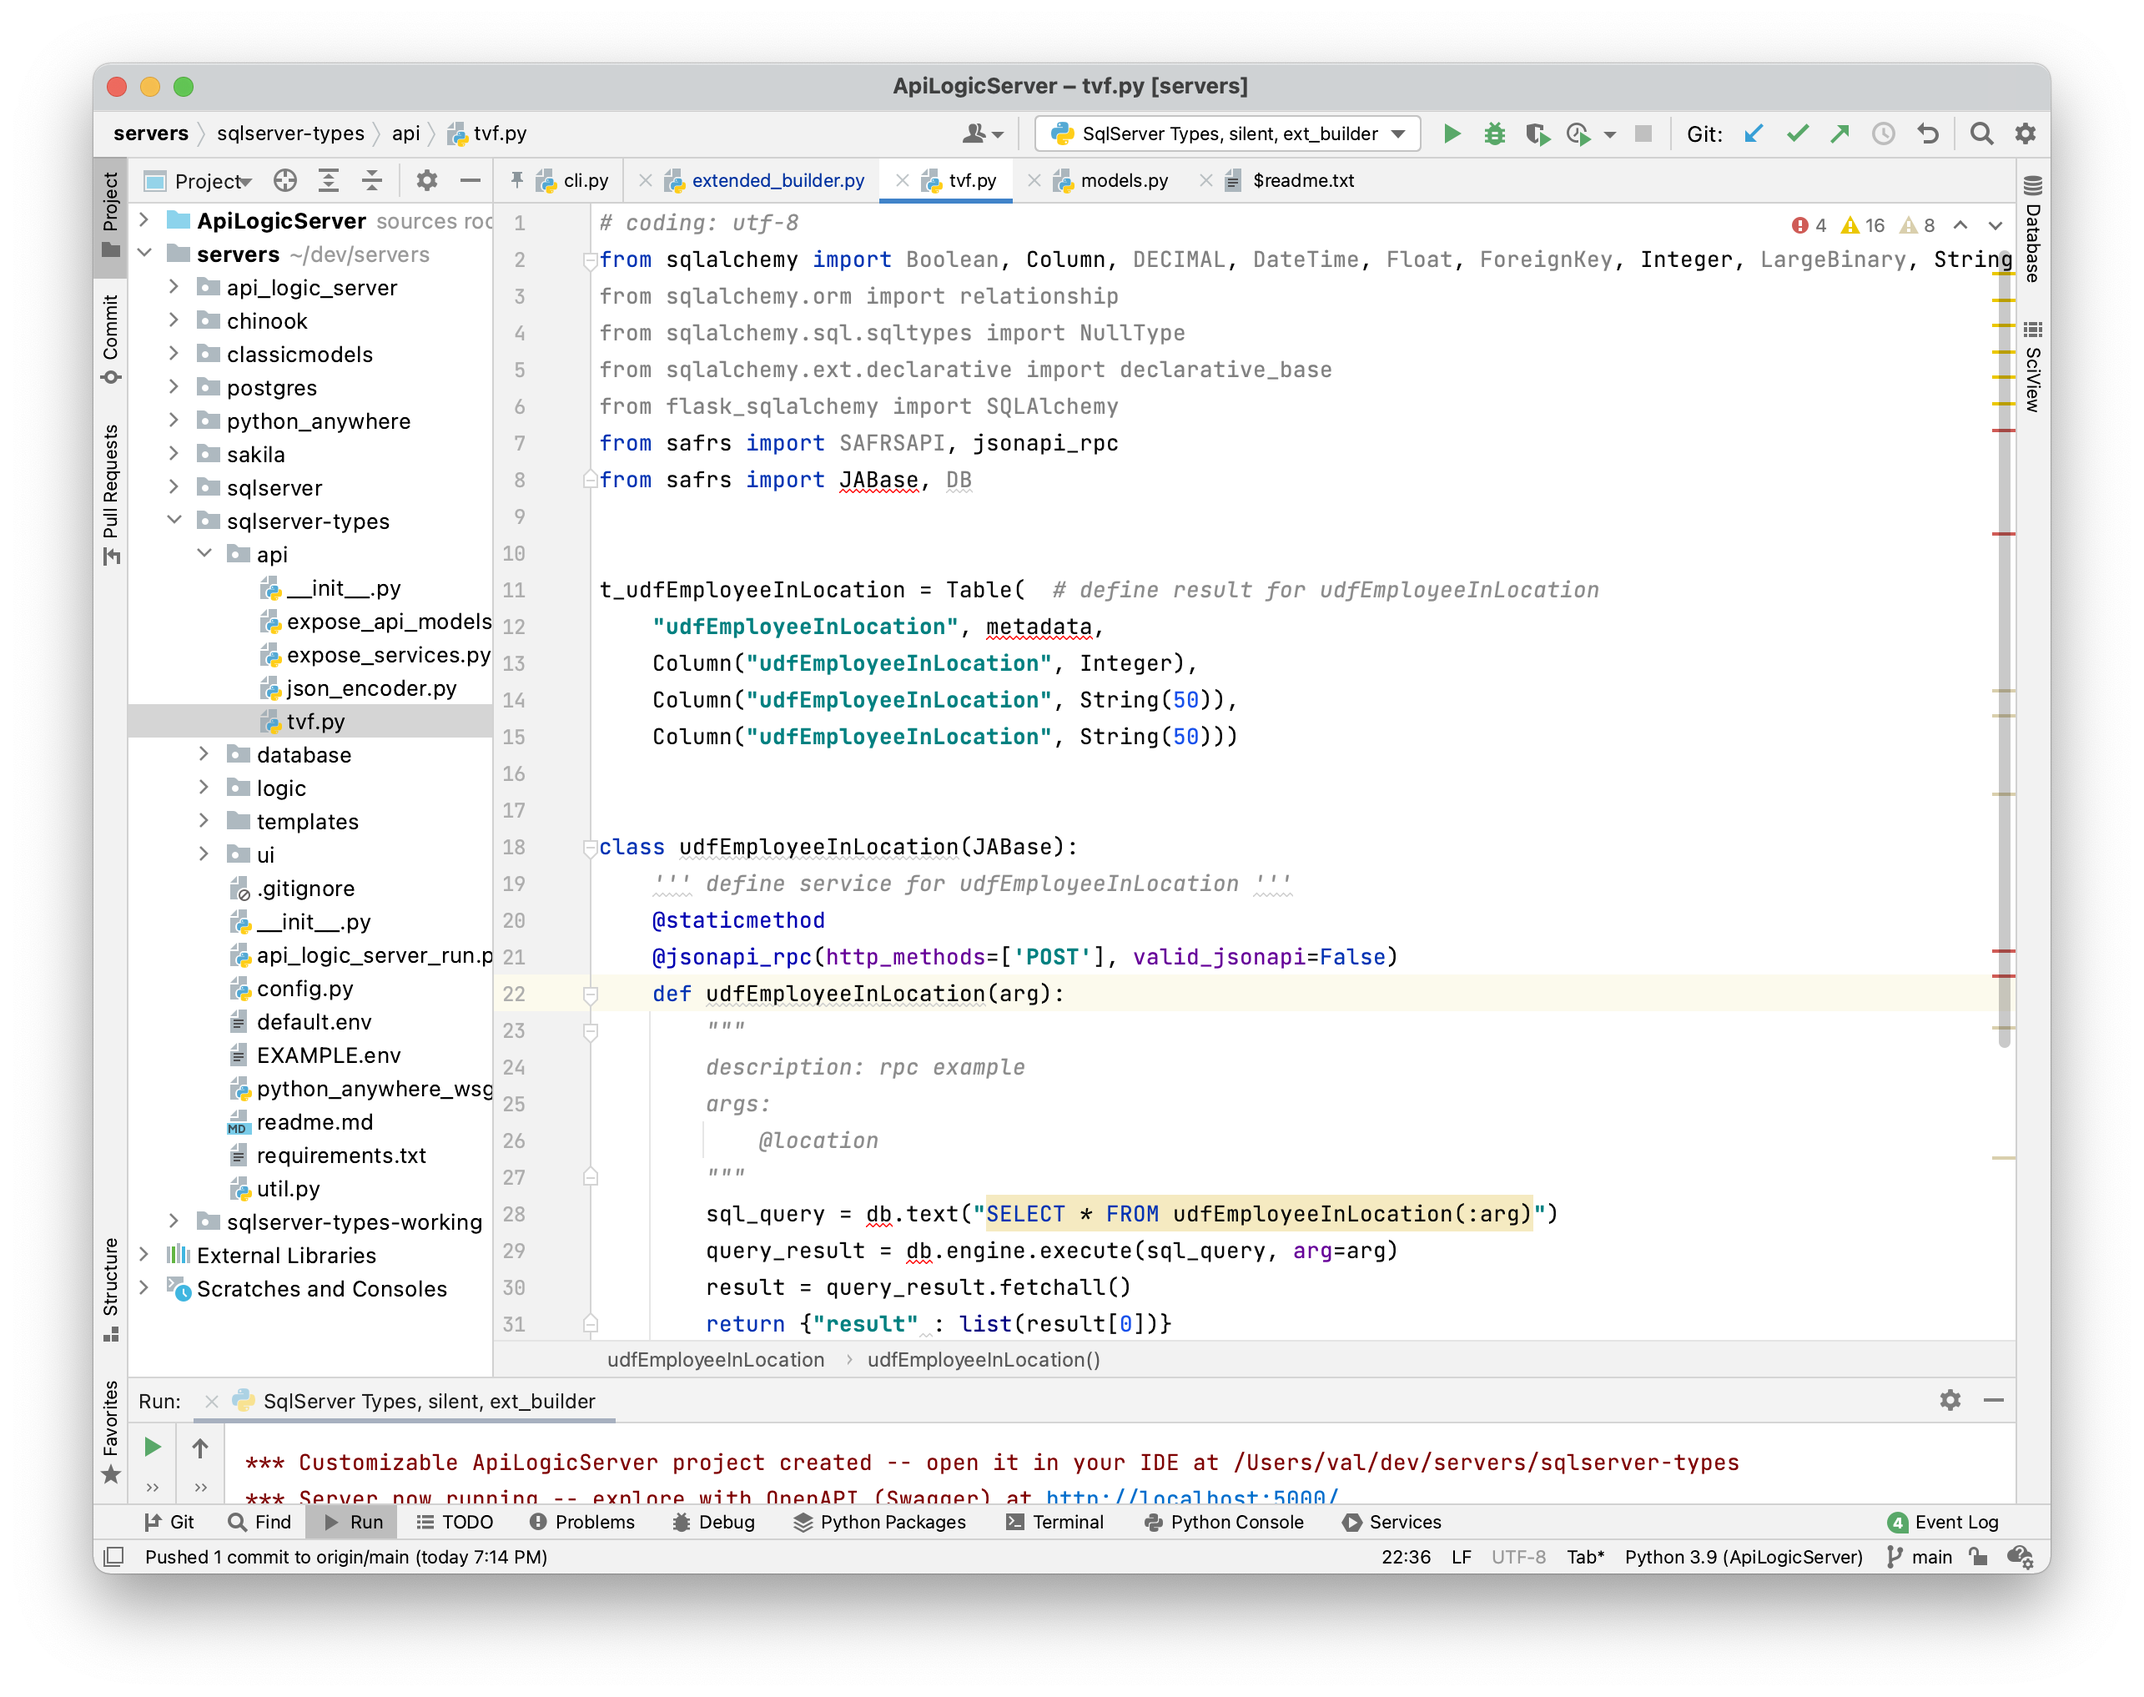
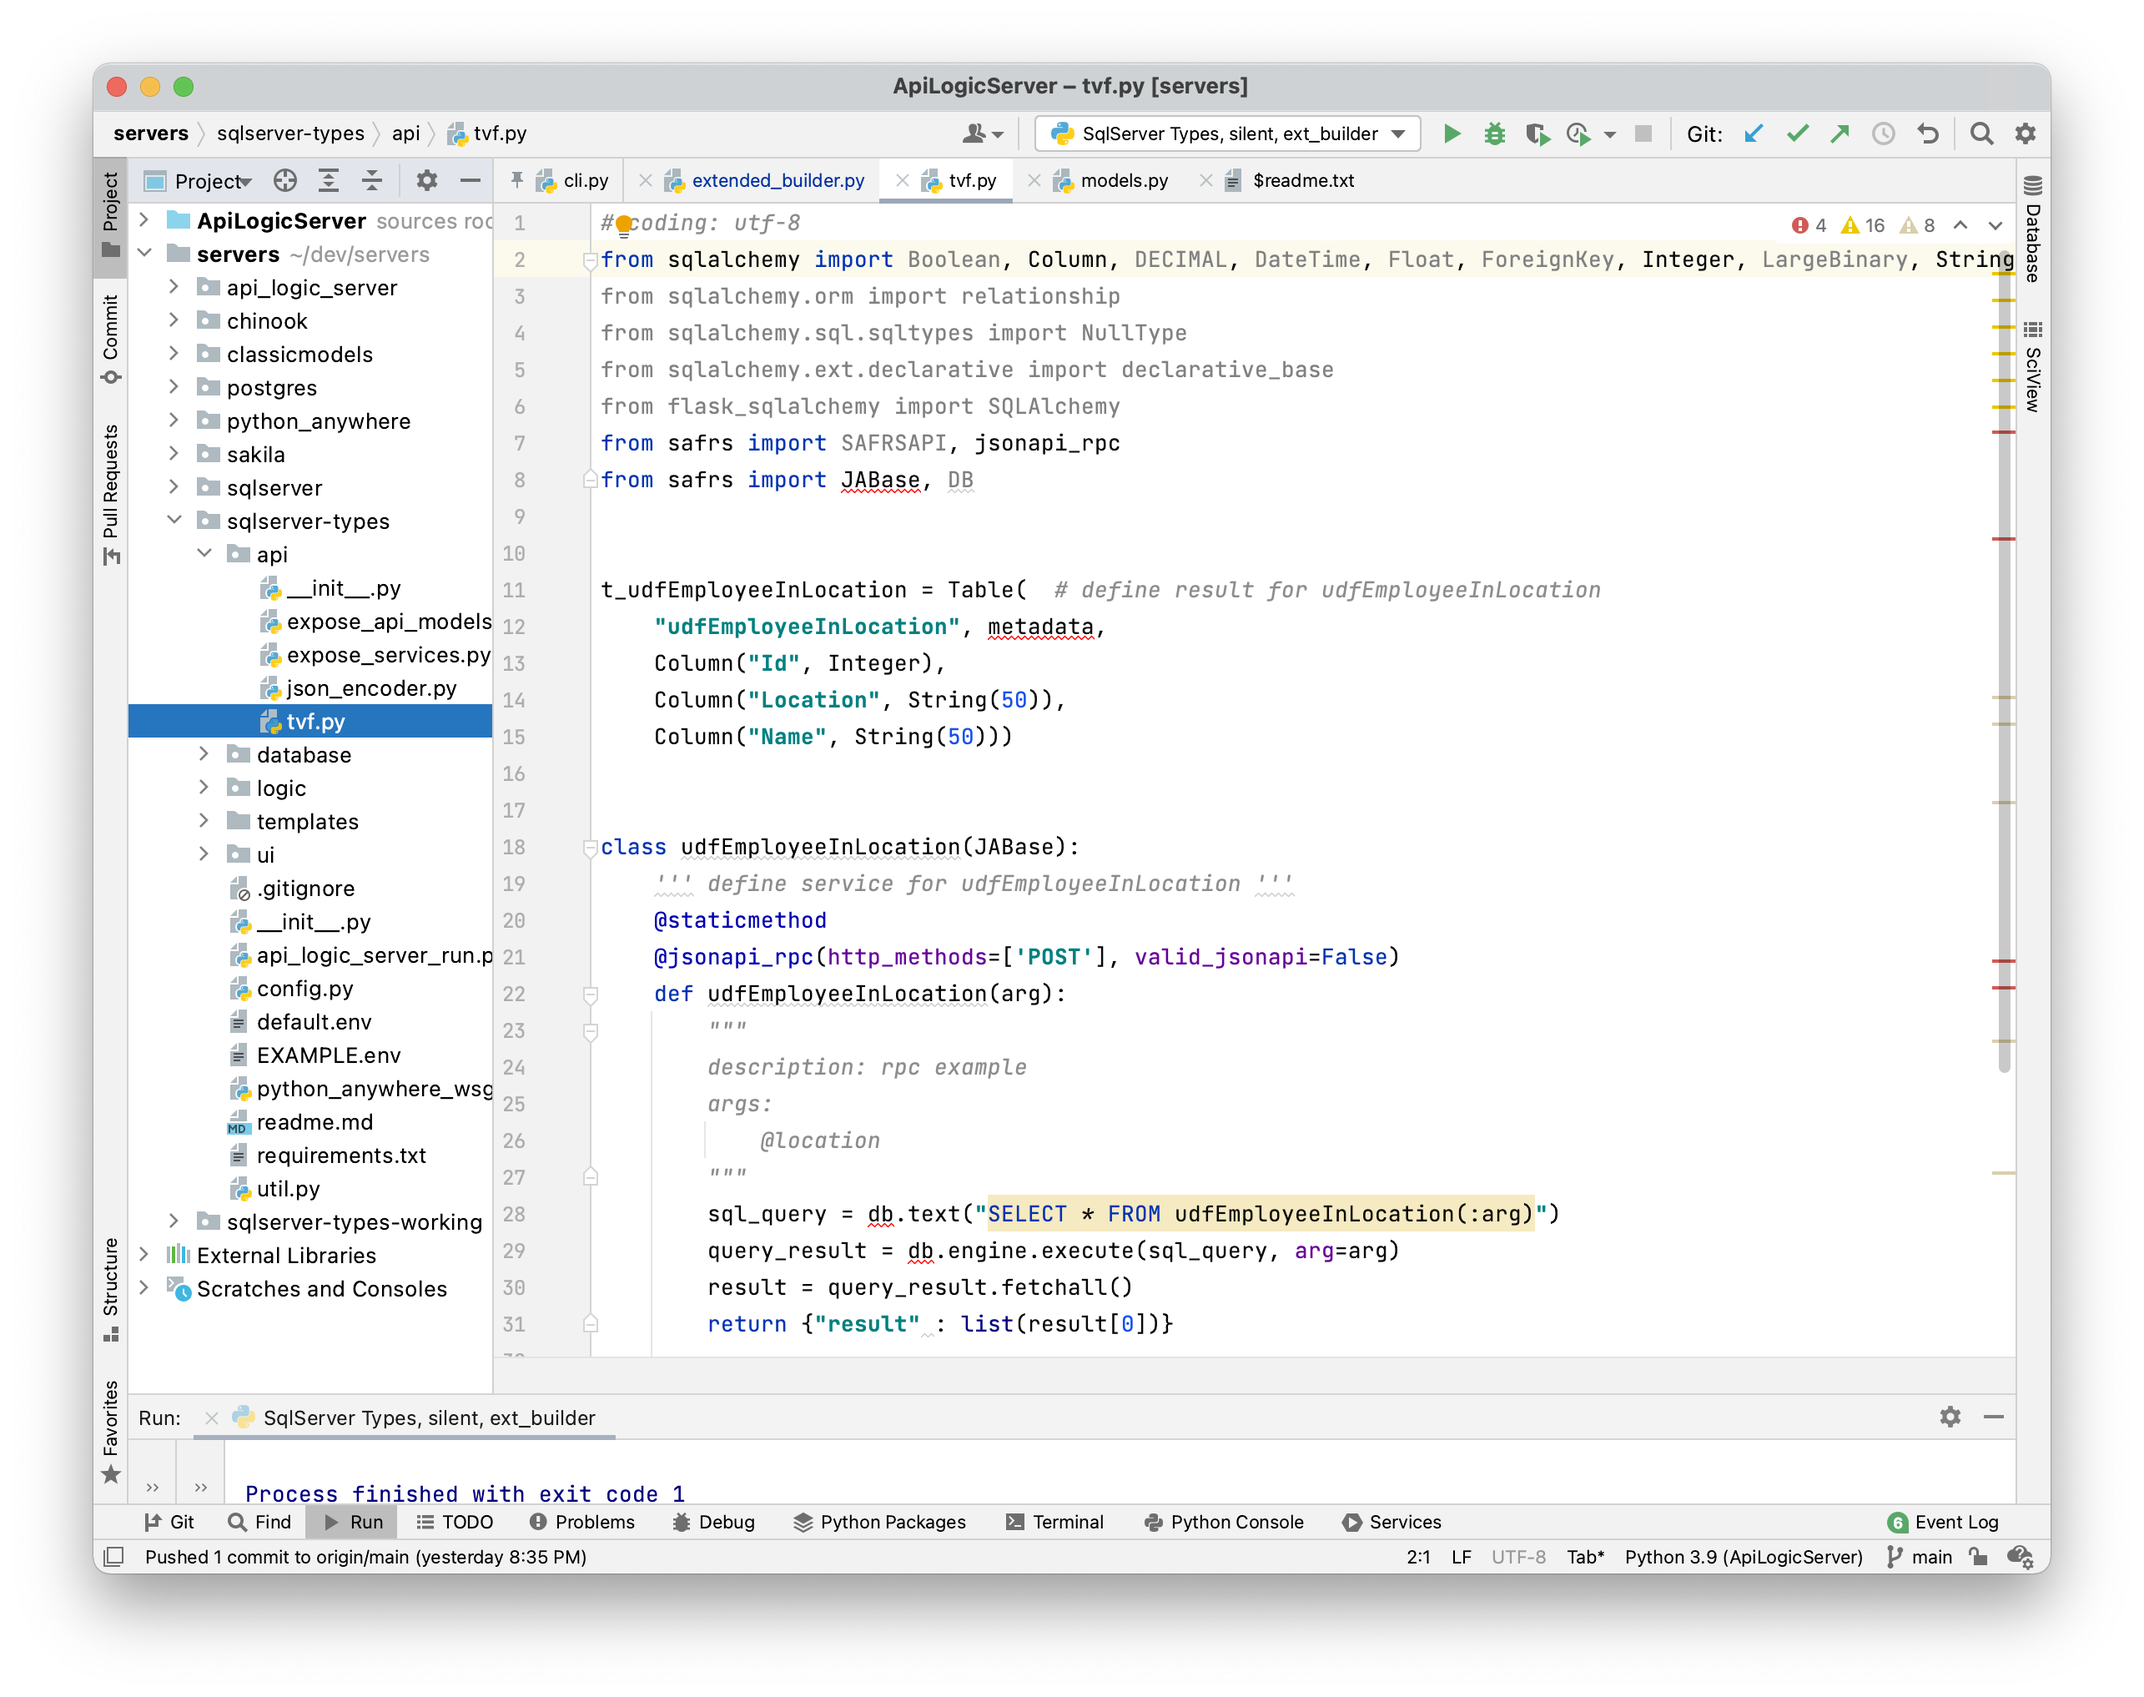
explore --extended_builder

diff --git a/api_logic_server_cli/extended_builder.py b/api_logic_server_cli/extended_builder.py
@@ -40,7 +40,7 @@ class TvfBuilder(object):
         self.tvf_contents += f'\t"{cols[0].Function}", metadata,\n'
         col_count = 0
         for each_col in cols:
-            self.tvf_contents += f'\tColumn("{each_col.Function}", '
+            self.tvf_contents += f'\tColumn("{each_col.Column}", '
             if each_col.Data_Type == "int":
                 self.tvf_contents += f'Integer)'
             elif each_col.Data_Type == "nvarchar":
